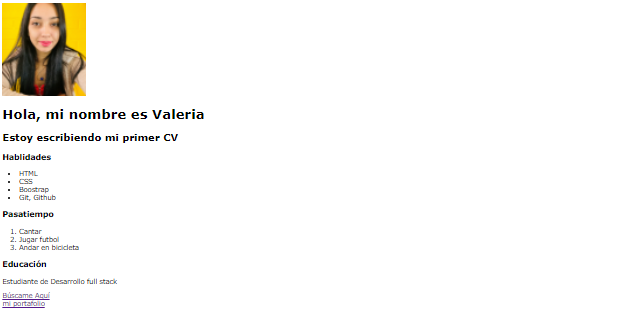
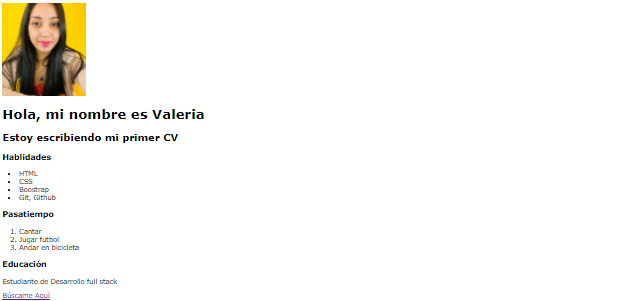
button is modified

Changed region(s): [[0.0, 0.3588, 0.3366, 1.0], [0.0, 0.1196, 0.153, 0.3289]]

diff --git a/index.html b/index.html
@@ -21,7 +21,7 @@
           <div class="collapse navbar-collapse" id="navbarNav">
             <ul class="navbar-nav ms-auto">
               <li class="nav-item px-2">
-                <a class="nav-link active text-dark bg-warning" style="border: solid; aria-current="page" href="#"><strong>Sobre mi</strong></a>
+                <a class="nav-link active text-dark bg-warning" style="border: solid; aria-current="page" href=""><strong>Sobre mi</strong></a>
               </li>
               <li class="nav-item px-2">
                 <a class="nav-link text-dark bg-warning" style="border: solid;" href="#"><strong>Cuppon</strong></a>
@@ -41,9 +41,9 @@
        <h2 class="text-dark">Full Stack</h2>
     </header>
     <h2 class="display-4 fw-bold text-center text-black mb-0" style="background-color:rgb(203, 27, 165);">Portafolio</h2>
-    <div id="carouselExampleIndicators" class="carousel slide" data-bs-ride="carousel">
+    <div id="carouselExampleIndicators" class="carousel slide pt-5" data-bs-ride="carousel"> 
       
-        <div class="carousel-indicators">
+       <div class="carousel-indicators"> 
             <button type="button" data-bs-target="#carouselExampleIndicators" data-bs-slide-to="0" class="active" aria-current="true" aria-label="Slide 1"></button>
             <button type="button" data-bs-target="#carouselExampleIndicators" data-bs-slide-to="1" aria-label="Slide 2"></button>
             <button type="button" data-bs-target="#carouselExampleIndicators" data-bs-slide-to="2" aria-label="Slide 3"></button>
@@ -52,40 +52,33 @@
         <div class="carousel-inner">
            
             <div class="carousel-item">
-                <img src="assets/img/cv.png" class="d-block w-100" alt="Curriculum Vitae">
+                <img src="assets/img/cv.png" class="d-block card-img-top" alt="">
                 <h2>Curriculum Vitae</h2>
                 <button type="button" class="btn btn-warning">
                    <a href="https://github.com/valebcg/challenge1.git" target="_blank " rel="noopener noreferrer ">Repositorio</a>
                     </button>
-                <button type="button" class="btn btn-warning">
-                    <a href="">Ir a cv</a>
-                        </button>
+                
             </div>
            
             
             <div class="carousel-item">
-                <img src="assets/img/iguana.png" class="d-block w-100" alt="banner de iguana page">
+                <img src="assets/img/iguana.png" class="d-block card-img-top" alt="">
                 <h2>Iguana Page</h2>
                 <button type="button" class="btn btn-warning">
                    <a href="https://github.com/valebcg/challenge3.git" target="_blank" rel="noopener noreferrer ">Repositorio</a>
                     </button>
-                <button type="button" class="btn btn-warning">
-                    <a href="">Ir a Iguana Page</a>
-                        </button>
+                
             </div>
             
             <div class="carousel-item active">
-                <img src="assets/img/cuppon.png" class="d-block w-100" alt="banner de cuppon">
+                <img src="assets/img/cuppon.png" class="d-block card-img-top" alt="">
                 <h2>Cuppon</h2>
                 <button type="button" class="btn btn-warning">
                   <a href="https://github.com/valebcg/challenge4.git" target="_blank " rel="noopener noreferrer ">Repositorio</a>
-                </button>
-                <button type="button" class="btn btn-warning">
-                <a href="">Ir a Cuppon</a>
-                    </button>
+               
             </div>
         </div>
-        <!--botones extras-->
+       
         <button class="carousel-control-prev " type="button" data-bs-target="#carouselExampleIndicators" data-bs-slide="prev">
             <span class="carousel-control-prev-icon" aria-hidden="true"></span>
             <span class="visually-hidden">Previous</span>
@@ -96,10 +89,6 @@
         </button>
     </div>
 
-   
-    
-
-        
        
 
       

diff --git a/assets/css/style.css b/assets/css/style.css
@@ -8,23 +8,22 @@ padding-left: 30px;
 }
 
 header{
-    background-image: url("../img/laptop-1512838_960_720.png");
-    background-size: cover;
-    background-position: center;
-    height: 20em;
-    padding-top: 10em;
-    font-size: 2em;
-    text-align: center;
+background-image: url("../img/laptop-1512838_960_720.png");
+background-position: center;
+height: 20em;
+padding-top: 10em;
+font-size: 2em;
+text-align: center;
 }
 
-.carousel {
-    background-color: rgb(203, 27, 165);
+.carousel { 
+background-color: rgb(203, 27, 165);
 }
 
 .carousel-item {
-    text-align: center;
-    margin-left: 30%;
-    margin-top: 30px;
-    margin-bottom: 50px;
-    width: 600px;
+text-align: center;
+margin-left: 30%;
+margin-top: 30px;
+margin-bottom: 50px;
+width: 600px;
 }
